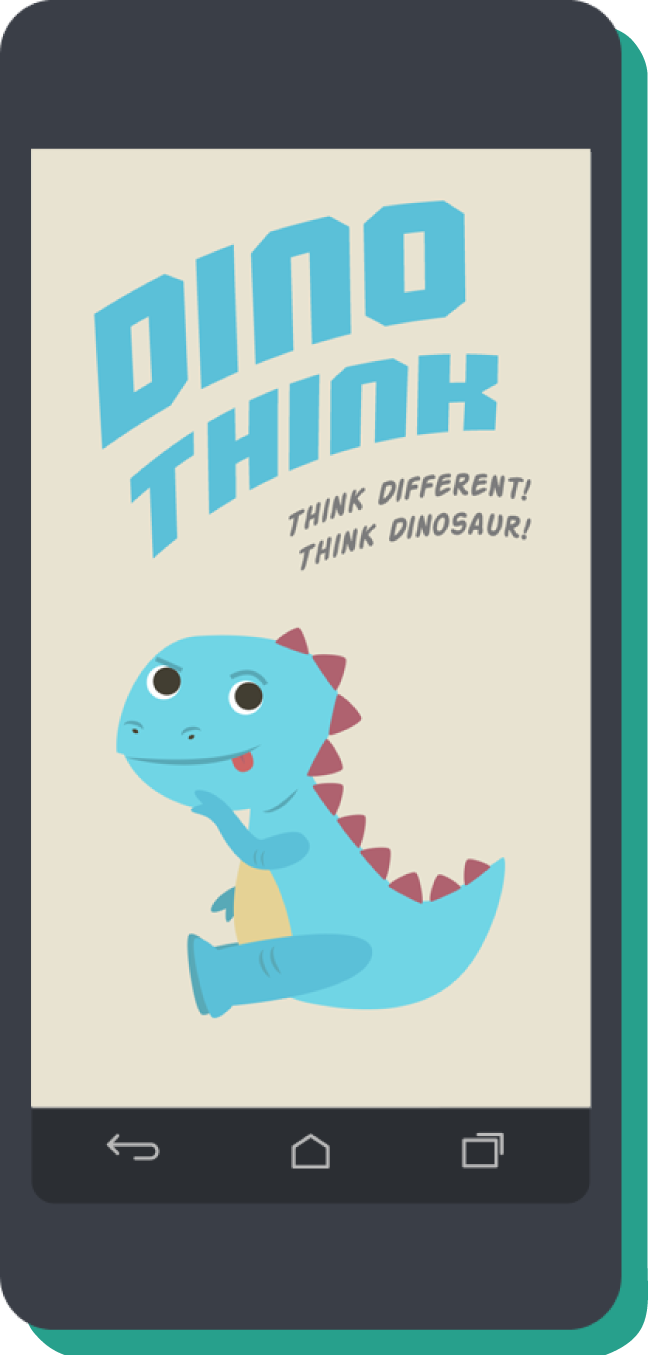
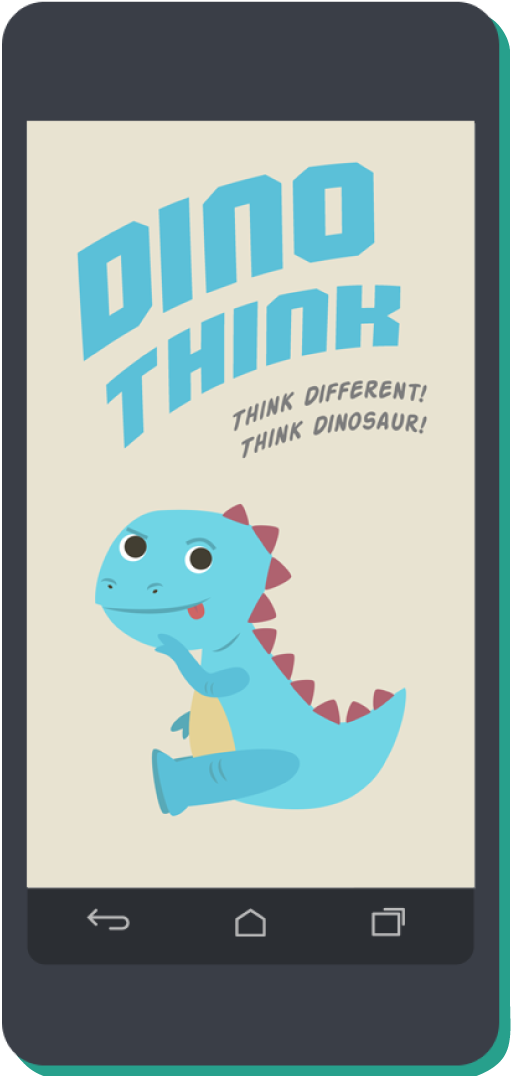
added basic layout for illustrations

Changed region(s): [[0.0, 0.0, 1.0, 1.0], [0.125, 0.1227, 0.8438, 0.4294], [0.1562, 0.46, 0.8125, 0.7667]]

diff --git a/html/lich.html b/html/lich.html
@@ -1,0 +1,62 @@
+<!DOCTYPE html>
+<html lang="en">
+<head>
+
+  <meta charset="utf-8">
+  <title>Adventure Time Lich Poster | Joanne Arboleda</title>
+  <meta name="description" content="Design & Illustration Portfolio">
+  <meta name="author" content="Joanne Arboleda">
+
+  <meta name="viewport" content="width=device-width, initial-scale=1">
+  
+  <link rel="stylesheet" href="../css/path/simple-grid.css">
+  <link rel="stylesheet" href="../css/path/style.css">
+	<link rel="icon" type="image/png" href="../img/favicon.ico">
+
+</head>
+<body>
+  <!----- NAV ----->
+  <ul class="nav right">
+    <li><a href="../index.html">Home</a></li>
+    <li><a href="../index.html#about">About</a></li>
+    <li class="current"><a href="works.html">Works</a></li>
+  </ul>
+  
+  <!----- CONTENT -----> 
+  <a href="works.html"><div class="button fixed-button"><span>&#8592; Back to works</span></div></a>
+
+  <div class="works-header">
+    <div class="container">
+      <div class="row">
+
+        <div class="col-2 hidden-sm"></div>
+        <div class="col-8">
+          <div class="works-title center">
+            <h2><em>Adventure Time</em> Lich Poster</h2>
+            <h3>Adobe Illustrator & Photoshop</h3>
+          </div>
+        </div>
+      </div>
+
+      <div class="row center">
+        <img src="../img/works/illustration/lich.png" alt="an icon depicting brand activation"/>
+      </div>
+    </div>
+  </div>
+  
+  <!----- CONTACT ----->
+  <footer class="contact">
+    <div class="container">
+      <div class="row">
+        <div class="col-1 hidden-sm"></div>
+        <div class="col-10">
+          <h2>Interested in my stuff?</h2>
+          <p>I’m on the hunt for my next adventure! If everything looks picture perfect, e-mail me at  <a href="mailto:joanne.b.arboleda@gmail.com" target="_blank">joanne.b.arboleda@gmail.com</a> with the button below.</p>
+          
+          
+          <a href="mailto:joanne.b.arboleda@gmail.com" target="_blank"><div class="button"><span>Shoot me an e-mail</span></div></a>
+        </div>
+      </div>
+  </footer>
+</body>
+</html>

diff --git a/html/100days.html b/html/100days.html
@@ -1,0 +1,62 @@
+<!DOCTYPE html>
+<html lang="en">
+<head>
+
+  <meta charset="utf-8">
+  <title>100 Day Project | Joanne Arboleda</title>
+  <meta name="description" content="Design & Illustration Portfolio">
+  <meta name="author" content="Joanne Arboleda">
+
+  <meta name="viewport" content="width=device-width, initial-scale=1">
+  
+  <link rel="stylesheet" href="../css/path/simple-grid.css">
+  <link rel="stylesheet" href="../css/path/style.css">
+	<link rel="icon" type="image/png" href="../img/favicon.ico">
+
+</head>
+<body>
+  <!----- NAV ----->
+  <ul class="nav right">
+    <li><a href="../index.html">Home</a></li>
+    <li><a href="../index.html#about">About</a></li>
+    <li class="current"><a href="works.html">Works</a></li>
+  </ul>
+  
+  <!----- CONTENT -----> 
+  <a href="works.html"><div class="button fixed-button"><span>&#8592; Back to works</span></div></a>
+
+  <div class="works-header">
+    <div class="container">
+      <div class="row">
+
+        <div class="col-2 hidden-sm"></div>
+        <div class="col-8">
+          <div class="works-title center">
+            <h2><del>100</del> 57 Day Project</h2>
+            <h3>Adobe Photoshop & Illustrator</h3>
+          </div>
+        </div>
+      </div>
+
+      <div class="row center">
+        <img src="../img/works/illustration/day31.gif" alt="an icon depicting brand activation"/>
+      </div>
+    </div>
+  </div>
+  
+  <!----- CONTACT ----->
+  <footer class="contact">
+    <div class="container">
+      <div class="row">
+        <div class="col-1 hidden-sm"></div>
+        <div class="col-10">
+          <h2>Interested in my stuff?</h2>
+          <p>I’m on the hunt for my next adventure! If everything looks picture perfect, e-mail me at  <a href="mailto:joanne.b.arboleda@gmail.com" target="_blank">joanne.b.arboleda@gmail.com</a> with the button below.</p>
+          
+          
+          <a href="mailto:joanne.b.arboleda@gmail.com" target="_blank"><div class="button"><span>Shoot me an e-mail</span></div></a>
+        </div>
+      </div>
+  </footer>
+</body>
+</html>

diff --git a/html/book.html b/html/book.html
@@ -1,0 +1,62 @@
+<!DOCTYPE html>
+<html lang="en">
+<head>
+
+  <meta charset="utf-8">
+  <title>Book Girl Illustration | Joanne Arboleda</title>
+  <meta name="description" content="Design & Illustration Portfolio">
+  <meta name="author" content="Joanne Arboleda">
+
+  <meta name="viewport" content="width=device-width, initial-scale=1">
+  
+  <link rel="stylesheet" href="../css/path/simple-grid.css">
+  <link rel="stylesheet" href="../css/path/style.css">
+	<link rel="icon" type="image/png" href="../img/favicon.ico">
+
+</head>
+<body>
+  <!----- NAV ----->
+  <ul class="nav right">
+    <li><a href="../index.html">Home</a></li>
+    <li><a href="../index.html#about">About</a></li>
+    <li class="current"><a href="works.html">Works</a></li>
+  </ul>
+  
+  <!----- CONTENT -----> 
+  <a href="works.html"><div class="button fixed-button"><span>&#8592; Back to works</span></div></a>
+
+  <div class="works-header">
+    <div class="container">
+      <div class="row">
+
+        <div class="col-2 hidden-sm"></div>
+        <div class="col-8">
+          <div class="works-title center">
+            <h2>Book Girl Illustration</h2>
+            <h3>Paint Tool SAI</h3>
+          </div>
+        </div>
+      </div>
+
+      <div class="row center">
+        <img src="../img/works/illustration/book.png" alt="an icon depicting brand activation"/>
+      </div>
+    </div>
+  </div>
+  
+  <!----- CONTACT ----->
+  <footer class="contact">
+    <div class="container">
+      <div class="row">
+        <div class="col-1 hidden-sm"></div>
+        <div class="col-10">
+          <h2>Interested in my stuff?</h2>
+          <p>I’m on the hunt for my next adventure! If everything looks picture perfect, e-mail me at  <a href="mailto:joanne.b.arboleda@gmail.com" target="_blank">joanne.b.arboleda@gmail.com</a> with the button below.</p>
+          
+          
+          <a href="mailto:joanne.b.arboleda@gmail.com" target="_blank"><div class="button"><span>Shoot me an e-mail</span></div></a>
+        </div>
+      </div>
+  </footer>
+</body>
+</html>

diff --git a/html/works.html b/html/works.html
@@ -91,9 +91,9 @@
       <div class="container">
         <div class="row">
           <div class="col-12 center">
-            <h2>Illustrations</h2>
+            <h2>Graphic Design & Illustration</h2>
             <ul>
-              <a href="#"><li>
+              <a href="book.html"><li>
                 <div class="thumb" id="thumb-book"></div>
                 <!--<div class="title">Book Girl Illustration</div>-->
               </li></a>
@@ -103,12 +103,12 @@
                 <!--<div class="title">CS Club Banners</div>-->
               </li></a>
               
-              <a href="#"><li>
+              <a href="100days.html"><li>
                 <div class="thumb" id="thumb-day-31"></div>
                 <!--<div class="title">Day 31 Animation</div>-->
               </li></a>
               
-              <a href="#"><li>
+              <a href="lich.html"><li>
                 <div class="thumb" id="thumb-lich"></div>
                 <!--<div class="title"><i>Adventure Time</i> Lich Illustration</div>-->
               </li></a>

diff --git a/css/path/style.css b/css/path/style.css
@@ -162,6 +162,12 @@ a {
   min-height: 50vh;
   width: 100%;
   background-color: #6BD6C4; }
+  .works-header img {
+    max-width: 60%;
+    max-height: 35em;
+    -webkit-box-shadow: 0.3em 0.3em 0px #27A08C;
+    -moz-box-shadow: 0.3em 0.3em 0px #27A08C;
+    box-shadow: 0.3em 0.3em 0px #27A08C; }
 
 .works-process {
   margin: 0 auto;
@@ -226,7 +232,8 @@ body {
   padding-bottom: 3em;
   min-height: 50vh;
   width: 100%;
-  background-color: #FA7D8C; }
+  background-color: #FA7D8C;
+  border-top: 2px solid #000; }
   .contact h2 {
     text-align: center; }
 

diff --git a/css/path/_works.scss b/css/path/_works.scss
@@ -94,6 +94,12 @@
 
 .works-header{
   @include section(50vh);
+ 
+  img{
+    max-width:60%;
+    max-height:35em;
+    @include box-shadow(0.3em 0.3em 0px $base-dark);
+  }
 }
 
 .works-process{

diff --git a/css/path/style.scss b/css/path/style.scss
@@ -109,6 +109,7 @@ body{
 
 .contact{
   @include section(50vh,$contrast);
+  border-top:2px solid $black;
   
   h2{
     text-align:center;
